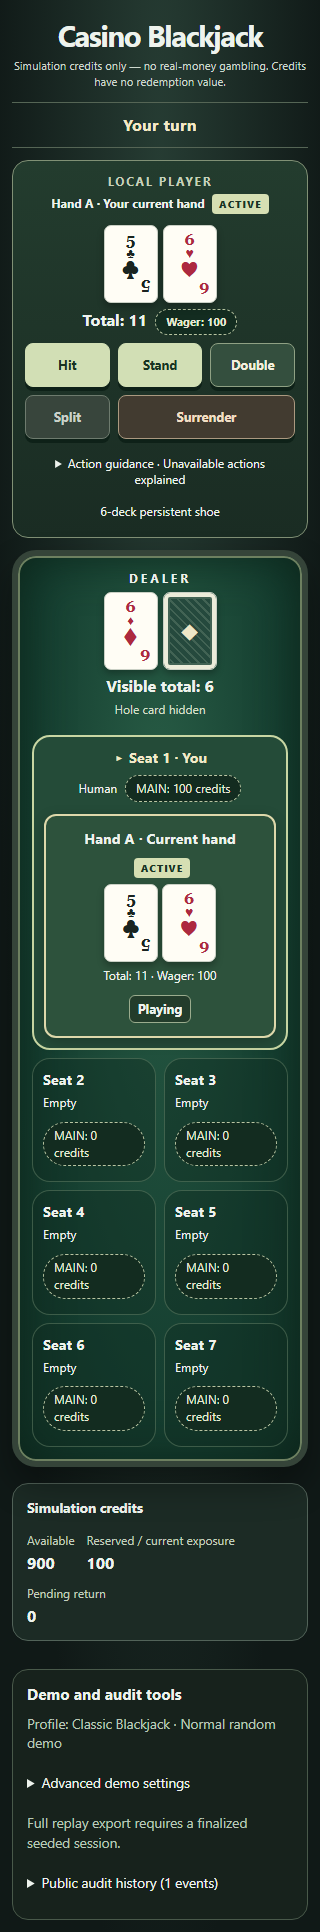
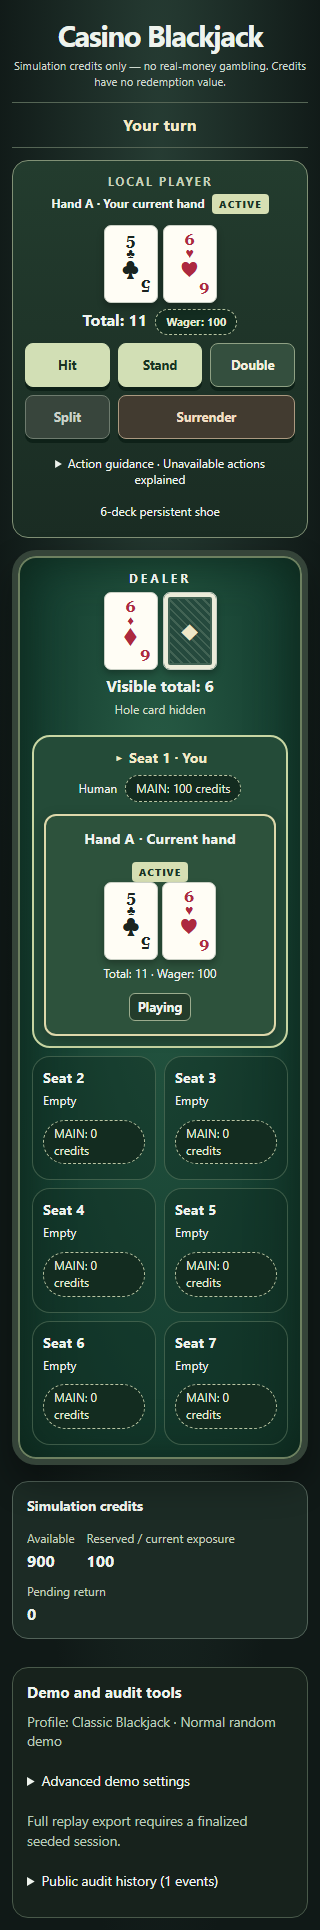
fix: prevent active-hand label overlap

diff --git a/tests/browser/polish.spec.ts b/tests/browser/polish.spec.ts
@@ -1,5 +1,29 @@
 import { test, expect } from '@playwright/test';
 
+test('active hand title and ACTIVE badge occupy separate visible space on tablet desktop and mobile', async ({ page }) => {
+  for (const fixture of ['basic', 'split']) {
+    await page.goto(`/?fixture=${fixture}`);
+    if (fixture === 'split') await page.getByRole('button', { name: 'Split', exact: true }).click();
+    for (const size of [{ width: 768, height: 1024 }, { width: 1280, height: 900 }, { width: 320, height: 720 }]) {
+      await page.setViewportSize(size);
+      const hand = page.locator('.seat.local .active-hand');
+      const title = hand.getByRole('heading', { level: 3 });
+      const badge = hand.locator('.turn-marker');
+      await expect(title).toBeVisible();
+      await expect(title).toHaveText('Hand A · Current hand');
+      await expect(badge).toBeVisible();
+      await expect(badge).toHaveText('ACTIVE');
+      const titleBox = (await title.boundingBox())!;
+      const badgeBox = (await badge.boundingBox())!;
+      const intersection = titleBox.x < badgeBox.x + badgeBox.width && badgeBox.x < titleBox.x + titleBox.width
+        && titleBox.y < badgeBox.y + badgeBox.height && badgeBox.y < titleBox.y + titleBox.height;
+      console.log(JSON.stringify({ fixture, viewport: size, title: titleBox, active: badgeBox, intersection }));
+      expect(intersection).toBe(false);
+      expect(await page.evaluate(() => document.documentElement.scrollWidth <= innerWidth)).toBe(true);
+    }
+  }
+});
+
 test('polished desktop anchors dealer and seven seats above visible game controls, with secondary tools closed', async ({ page }) => {
   await page.goto('/?fixture=basic');
   const dealer = await page.getByRole('region', { name: 'Dealer', exact: true }).boundingBox();

diff --git a/src/ui/Table.tsx b/src/ui/Table.tsx
@@ -26,8 +26,10 @@ export function Table({ view }: { view: BrowserView }) {
         <p>{seat.occupancy === 'EMPTY' ? 'Empty' : seat.occupancy === 'HUMAN' ? 'Human' : 'Computer'}{seat.sittingOut && ' · Sitting Out'}</p>
         <p className="wager-chip">MAIN: {credits(wager)} credits</p>
         {hands.map((hand) => <article key={hand.handId} aria-label={handLabel(hand.handId)} data-hand-id={hand.handId} className={round?.currentHandId === hand.handId ? 'active-hand' : 'hand'}>
-          <h3>{handLabel(hand.handId)}{round?.currentHandId === hand.handId && ' · Current hand'}</h3>
-          {round?.currentHandId === hand.handId && <span className="turn-marker">ACTIVE</span>}
+          <div className="hand-header">
+            <h3>{handLabel(hand.handId)}{round?.currentHandId === hand.handId && ' · Current hand'}</h3>
+            {round?.currentHandId === hand.handId && <span className="turn-marker">ACTIVE</span>}
+          </div>
           <Cards cards={hand.cards} /><p>Total: {hand.total} · Wager: {credits(hand.stakeUnits)}</p>
           <p className={`result-badge ${hand.outcome === 'CHARLIE' ? 'charlie' : ''}`} data-result={hand.outcome}>{hand.outcome ? resultLabel(hand.outcome, hand.outcomeReason) : hand.complete ? 'Decisions complete' : hand.cards.length === 1 ? 'Waiting for card' : 'Playing'}</p>
           {hand.outcome === 'SURRENDERED' && view.ownResults.filter((result) => result.handId === hand.handId).map((result) =>

diff --git a/src/ui/styles.css b/src/ui/styles.css
@@ -34,8 +34,10 @@ header p { font-size: .85rem; color: #ccd8cd; }
 .local h2 { color: #f1eac8; }
 .local > p { display: inline-block; margin: 4px; }
 .local article { display: grid; grid-template-columns: 1fr 1fr; align-items: center; gap: 4px; }
-.local article h3 { grid-column: 1 / -1; margin: 4px 0 10px; text-align: left; }
-.local article .turn-marker { position: absolute; right: 8px; top: 8px; }
+.hand-header { display: flex; flex-wrap: wrap; align-items: center; justify-content: space-between; gap: 4px 8px; }
+.hand-header h3 { margin: 4px 0 10px; }
+.hand-header .turn-marker { flex-shrink: 0; margin: 0; }
+.local article .hand-header { grid-column: 1 / -1; text-align: left; }
 .local article .cards { grid-row: 2 / 4; }
 .local article:has(.card:nth-child(3)) .cards { grid-column: 1 / -1; grid-row: auto; }
 .turn-seat h2::before { content: "▸ "; }
@@ -149,8 +151,7 @@ textarea { width: 100%; max-width: 100%; background: #14271d; color: #fff; borde
   .seat[data-position="local"] { grid-column: 1 / -1; order: -1; }
   .seat .cards { gap: 4px; }
   .local article { display: block; }
-  .local article h3 { text-align: center; }
-  .local article .turn-marker { position: static; }
+  .local article .hand-header { justify-content: center; text-align: center; }
   .credits { padding: 12px; }
   dl { gap: 12px; }
   dd { font-size: 1rem; }

diff --git a/docs/DEVELOPMENT_LOG.md b/docs/DEVELOPMENT_LOG.md
@@ -1,3 +1,15 @@
+### 2026-10-01 11:43:28 +08:00 — LOW-05 / T08 repair6 VERIFIED
+
+Official powershell.exe -NoProfile -ExecutionPolicy Bypass -File ./scripts/verify.ps1 PASS/0: typecheck/lint,66files/956Vitest(start11:37:04,12.06s),ES2023 domain isolation,production build/fixture exclusion,44Chromium/45.5s and exact96 REG-M8 mappings. Mandatory accepted preservation PASS: M1 12/155,M2 6/78,M3 5/72,M4 7/171,M5 8/168,M6 9/181,M7 56/870+24Chromium/22.6s. Geometric boxes/intersection=false match targeted evidence at all3 viewports for original/Split hands; keyboard/focus/touch/secrecy/reduced-motion regressions PASS. Full harness re-generated four images with exactly the11:35:47 hashes; Classic/Mobile changed honestly,Charlie/Replay unchanged. No source/test/dependency changes after this full verification. Same-session scoped diff review:10 intended files; domain diff EMPTY,diff --check PASS/0,no unknown/untracked changes. T08 advances5->6/10,current ledger0,2,3,2,2,1,1,6,3. LOW-05 OPEN — repair VERIFIED; independent recheck pending. T09 repair4/LOW-04 follows. Normal authorized checkpoint publication follows; exact SHA/push/parity receipt is recorded with next checkpoint, not invented. No independent review/acceptance/deployment.
+
+### 2026-10-01 11:35:47 +08:00 — final two-finding repair baseline and LOW-05 evidence
+
+Baseline executed2026-10-01 11:26:27 +08:00: correct repository,main=HEAD=origin/main=07dbcea77561c9a8dc30d4e8498f99ec2f8d3b54,0/0,clean/full untracked empty. Read AGENTS/SKILL/RULES/SPEC/DESIGN/PLAN/STATE/UX and relevant tests. Recommended GPT Sol6.1/High; actual NOT VERIFIED/NOT VERIFIED. Reconstructed review closed seven earlier findings; only LOW-04/05 remain OPEN. Attempted narrow recheck BLOCKED because no repaired SHA existed; no new finding, repair or counter change. Current ledger0,2,3,2,2,1,1,5,3. Authorized contracts/stop conditions in STATE/PLAN; normal two verified commits and push/fetch to origin main are authorized, no independent review/acceptance/deployment.
+
+LOW-05 hypothesis: normal wrapping flex flow in a dedicated hand-header prevents title/badge rectangle intersection without hiding/shrinking text or arbitrary padding. Added geometric regression first: original768x1024 title{x285.75,y484.296875,w196.5,h20},badge{x425.609375,y480.296875,w56.640625,h20},intersection=true; assertion FAIL. Sandbox process cleanup stalled and was interrupted(exit1); a concurrent targeted launch failed because its own Vite PID32212 still occupied4173. Read-only port/process lookup initially denied, owner-context retry identified the known test PID; interrupt released those processes. After source fix, sandbox7 scenarios individually passed but teardown did not return, interrupted(exit1), not counted as PASS. Owner-context identical targeted polish/portfolio suite returned7passed/10.3s,exit0. Environment cleanup failures are preserved and introduce no additional code repair/counter.
+
+Fixed768x1024 title{x285.75,y484.296875,w151.59375,h20},ACTIVE{x285.75,y518.296875,w56.640625,h20},intersection=false. Original/Split hands at1280x900 and320x720 also visible/disjoint/no page horizontal overflow. Targeted m8Contract/portfolio/m8Regression3files/7tests PASS/0(start11:34:34). Classic and Mobile PNGs changed, regenerated and visually inspected; Charlie and Replay/Audit byte-identical. New hashes: ClassicB319E1B5A2731AB3EA1D647CC0E29ED5DB19E2EFC31D1D07280C2F226C67F584; Mobile5BEC4DDC70B298480F473B876A728EBAD8998023E922F4ADF52D4612C247B9BF. Hashes updated in PORTFOLIO; full verification/domain/diff review pending. LOW-05 repair IMPLEMENTED, finding OPEN. T08 advances5->6 only after VERIFIED. LOW-04/T09 repair4 follows; REG-096 and current prose must use actual final counts, retaining historical38-test evidence.
+
 ### 2026-10-01 01:19:09 +08:00 — final portfolio/documentation guards PASS
 
 Final portfolio/current-doc contracts2 files/6 tests PASS/0 at01:19:08,412ms. git diff --exit-code HEAD for src/tests/scripts/packages/TypeScript/Playwright config PASS/0 EMPTY; no executable changes after the full harness or UI publication. git diff --check/full untracked status PASS/0, exactly9 intended docs/image paths including recorded UI push receipt; no unknown changes. Final document diff and hashes inspected, human acceptance pending and two open reviewer findings preserved. Publish docs: refresh polished blackjack portfolio normally, fetch origin main, require exact main/HEAD/origin parity0/0 and clean tree, then STOP. Exact final SHA/parity/clean result is in final delivery/Git, not fabricated in advance.

diff --git a/docs/PORTFOLIO.md b/docs/PORTFOLIO.md
@@ -36,18 +36,18 @@ M8 NOT ACCEPTED. Deployment NOT RUN.
 
 [Charlie result](images/charlie-result.png) and [replay/audit](images/replay-audit.png) are reproducible screenshots from `tests/browser/portfolio.spec.ts`, with fixed audit time and controlled real-domain commands. They contain public UI only; test factories are excluded from normal production builds. Screenshots are demonstration fixtures, not randomness/fairness evidence.
 
-The polished screenshots replace the historical dashboard images. Portfolio screenshots disable CSS animation only for capture, use fixed audit UTC and real-domain deterministic commands; runtime motion and reduced-motion behavior are tested separately. The optional [320px mobile view](images/mobile-table.png) comes from the reduced-motion polish test. Same-session visual inspection checks public-only content and clipping; the owner judges game feel. Full-harness hashes captured2026-10-01 01:11:11 +08:00 matched all4 repeated captures at01:14:15 (targeted6 Chromium PASS/0,9.1s). Hashes prove byte reproducibility, not visual quality.
+The polished screenshots replace the historical dashboard images. Portfolio screenshots disable CSS animation only for capture, use fixed audit UTC and real-domain deterministic commands; runtime motion and reduced-motion behavior are tested separately. The optional [320px mobile view](images/mobile-table.png) comes from the reduced-motion polish test. Same-session visual inspection checks public-only content and clipping; the owner judges game feel. Historical full-harness captures2026-10-01 01:11:11 +08:00 matched all4 repeats at01:14:15 (targeted6 Chromium PASS/0,9.1s). LOW-05 regeneration at11:35:47 changed Classic/Mobile to the hashes below; both were visually inspected. Charlie/Replay remained byte-identical. Targeted7 Chromium PASS/0; final full-harness repeat evidence is in STATE/log. Hashes prove byte reproducibility, not visual quality.
 
 | Public image | SHA-256 |
 | --- | --- |
[6 lines of base64/hex data omitted]
 
 Regenerate with `npm.cmd run test:e2e -- tests/browser/polish.spec.ts tests/browser/portfolio.spec.ts`; compare with `Get-FileHash -Algorithm SHA256 docs/images/*.png`.
 
-Final visual-polish harness PASS/0:66 Vitest files/956 tests and43 Chromium tests. Five new semantic/layout polish checks cover desktop/mobile priority, complete Dealer visibility, closed secondary tools, selectable wager chips, split/Charlie markers, reduced motion and seven funded seats. [96 exact M8 regression owners](M8_MAPPING.md) and mandatory accepted M1–M7 preservation all PASS, including24 original M7 Chromium tests. [STATE](STATE.md) and [DEVELOPMENT_LOG](DEVELOPMENT_LOG.md) retain the actual checked counts, timestamps, failures and publication evidence.
+Historical visual-polish harness PASS/0:66 Vitest files/956 tests and43 Chromium tests. Five semantic/layout polish checks covered desktop/mobile priority, complete Dealer visibility, closed secondary tools, selectable wager chips, split/Charlie markers, reduced motion and seven funded seats. LOW-05 adds a sixth geometric check; its current official harness PASS/0 inspected2026-10-01 11:43:28 +08:00 has66 Vitest files/956 tests and44 Chromium tests. [96 exact M8 regression owners](M8_MAPPING.md) and mandatory accepted M1–M7 preservation all PASS, including24 original M7 Chromium tests. [STATE](STATE.md) and [DEVELOPMENT_LOG](DEVELOPMENT_LOG.md) retain actual checked counts, timestamps, failures and publication evidence. LOW-04/05 remain OPEN pending independent recheck; no acceptance is implied.
 
 ## Honest boundaries
 

diff --git a/docs/STATE.md b/docs/STATE.md
@@ -1,5 +1,13 @@
 # Casino Blackjack - Project State
 
+## Final LOW-04 / LOW-05 repair checkpoint (current; supersedes historical status below)
+
+Baseline 2026-10-01 11:26:27 +08:00: main=HEAD=origin/main=07dbcea77561c9a8dc30d4e8498f99ec2f8d3b54,0/0,clean including untracked files. The reconstructed independent review closed MEDIUM-01..04 and LOW-01..03 at that SHA, and reported only LOW-04 (current inventory) and LOW-05 (tablet title/badge overlap). The attempted narrow recheck correctly BLOCKED at the unchanged SHA; it assessed no new finding, performed no repair and changed no counter. No independent review is conducted in this implementation session.
+
+M8-T08 repair6 / LOW-05: VERIFIED after official verify.ps1 PASS/0 inspected2026-10-01 11:43:28 +08:00: typecheck/lint/domain isolation/build/fixture exclusion,66 files/956 Vitest,44 Chromium/45.5s,REG-001..096 and mandatory M1-M7 preservation (155,78,72,171,168,181;M7 870+24Chromium) all PASS. Dedicated wrapping hand-header flow separates title and ACTIVE. New geometric regression fails on original tablet CSS and passes after the fix, including Split and desktop/mobile. Targeted polish/portfolio7 Chromium PASS/0 at11:35:47; targeted documentation/mapping3 files/7 Vitest PASS/0 at11:34:34. Classic/Mobile screenshots changed, regenerated, visually inspected and rehashed; full-harness repeats match. Charlie/Replay byte-identical. Domain diff EMPTY. M8-T09 repair4 / LOW-04 is next: synchronize only current counts and strengthen existing REG-096, preserving historical counts and all96 mappings.
+
+T08=6/10;current ledger0,2,3,2,2,1,1,6,3. T09 remains3/10 until its next repair is VERIFIED; expected final0,2,3,2,2,1,1,6,4. M1-M7 ledgers unchanged. LOW-05 OPEN — repair VERIFIED; independent recheck pending. LOW-04 OPEN — repair pending. Recommended GPT Sol6.1/High; actual model/effort NOT VERIFIED/NOT VERIFIED. Scope excludes domain/rules/RNG/funds/replay/audit/policy/dependencies. Steps -> regression reproduction -> surgical layout/current-doc changes -> affected checks/screenshots -> official verify.ps1/preservation -> diff/domain/whitespace/status review -> two normal authorized commit/push/fetch/parity/clean checkpoints -> STOP. Stop for authority conflict, unknown overlap, unavailable validation, unexpected domain diff, unsafe publication or cumulative10 repairs. M8 NOT ACCEPTED; deployment NOT RUN.
+
 ## M8-T08 — Human Manual Feedback: Visual Polish / Game Feel
 
 Entry baseline 2026-09-30 17:52:06 +08:00: main=HEAD=origin/main=e7f174f7c5c4d70e6023d195f2ffad51d71a7b34, ahead/behind 0/0, clean including untracked files. Owner reported acceptable functionality but a boring dashboard-like interface. Historical reviewed T08=1/10; batch1 actually advanced T08 to2/10 at5c9f071. Human-feedback repair3 corrected initial desktop/mobile positioning; repair4 corrected persistent desktop height; repair5 corrected the stronger full-Dealer mobile invariant. **T08 cumulative5/10 VERIFIED**; M8 ledger **0,2,3,2,2,1,1,5,3**. No new T10 and no historical ledger reset. Recommended GPT Sol6.1/High; actual client model/effort NOT VERIFIED/NOT VERIFIED.

diff --git a/docs/PLAN.md b/docs/PLAN.md
@@ -1,5 +1,11 @@
 # Casino Blackjack - Engineering Plan
 
+## Final two-finding repair contract (current; earlier checkpoints below are historical)
+
+Authorized baseline07dbcea77561c9a8dc30d4e8498f99ec2f8d3b54,main/origin parity0/0,clean at2026-10-01 11:26:27 +08:00. Earlier seven M8 findings CLOSED by reconstructed review; only LOW-04/05 OPEN. A BLOCKED unchanged-HEAD recheck is not a new finding or repair cycle.
+
+M8-T08 repair6: structural wrapping hand-header, geometric no-intersection regression at768x1024 plus1280x900/320x720 and Split, preserved keyboard/focus/44px/card labels/secrecy/reduced motion; domain diff EMPTY. VERIFIED after official harness PASS/0 inspected2026-10-01 11:43:28 +08:00:66/956 Vitest,44 Chromium,96 REG owners and all M1-M7 preservation. M8-T09 repair4: actual current inventory in README/handoff/LAB and current-status documents, mechanical REG-096 consistency without REG-097, historical counts retained; next checkpoint. T08=6/10,current ledger0,2,3,2,2,1,1,6,3; expected final0,2,3,2,2,1,1,6,4 only after T09 VERIFIED. Prior M1-M7 ledgers unchanged. Task scope/verification/stop conditions and evidence: STATE/current log. Recommended GPT Sol6.1/High; actual NOT VERIFIED/NOT VERIFIED. Two authorized normal verified commits/push/fetch/parity/clean; no independent closure, acceptance or deployment.
+
 ## M8-T08 — Human Manual Feedback: Visual Polish / Game Feel
 
 VERIFIED, cumulative repair5/10 (prior actual2/10; visual repairs3,4,5), under the explicit human-feedback contract. Targeted22 Vitest and6 Chromium PASS; official verify.ps1 PASS/0 inspected2026-10-01 01:11:59 +08:00,66/956 Vitest,43 Chromium, all M1-M7 preservation including24 original browser tests and96 REG-M8 owners PASS. UI/CSS and reveal-gated Dealer presentation only; domain diff empty. Separate normal UI and polished portfolio/documentation publications -> final parity/clean -> STOP for independent recheck and human visual acceptance. No M8-T10. Recommended GPT Sol6.1/High; actual NOT VERIFIED/NOT VERIFIED. Scope, acceptance and stop conditions: STATE. All other task/historical ledgers and finding statuses preserved; M8 NOT ACCEPTED, deployment NOT RUN.

diff --git a/docs/DESIGN.md b/docs/DESIGN.md
@@ -2,6 +2,8 @@
 
 ## M8-T08 human-feedback presentation polish
 
+LOW-05 uses a dedicated hand-header flex row in normal flow. The title and ACTIVE badge occupy separate layout space and wrap when needed; no hidden text, smaller type or arbitrary padding. Geometric Playwright checks cover original and Split hands at 768x1024, 1280x900 and 320x720. Domain semantics are unchanged.
+
 The authorized visual repair replaces the dashboard composition with CSS felt/rail and a seven-seat horseshoe, anchoring Dealer above a lower-center local seat regardless of seat number. Secondary seats are quieter. Desktop current cards live on the table; mobile duplicates the public current-hand presentation above secondary seats to preserve accepted primary-action priority. Completed split children remain visible with their stable labels. Controls keep authoritative enablement/commands and 44px targets; optional action guidance retains disabled-reason ARIA references. Chip buttons select input values, never place wagers automatically. Available/reserved/pending stay separate.
 
 Playing cards use text suit/rank labels, original CSS backs and no runtime assets. The controller adds reveal-gated Dealer status using existing domain evaluators; unrevealed status is always Hole card hidden. CSS entry/reveal/result/press/emphasis motion lasts150–200ms, runs after immediate state projection, and is disabled by prefers-reduced-motion. No sound, domain-rule or replay/audit changes. Settings/history remain collapsed below gameplay. Semantic/layout tests supplement unchanged accepted browser tests; portfolio capture disables motion only to stabilize image generation. Owner visual approval and the same independent reviewer's final combined-HEAD recheck remain pending.
